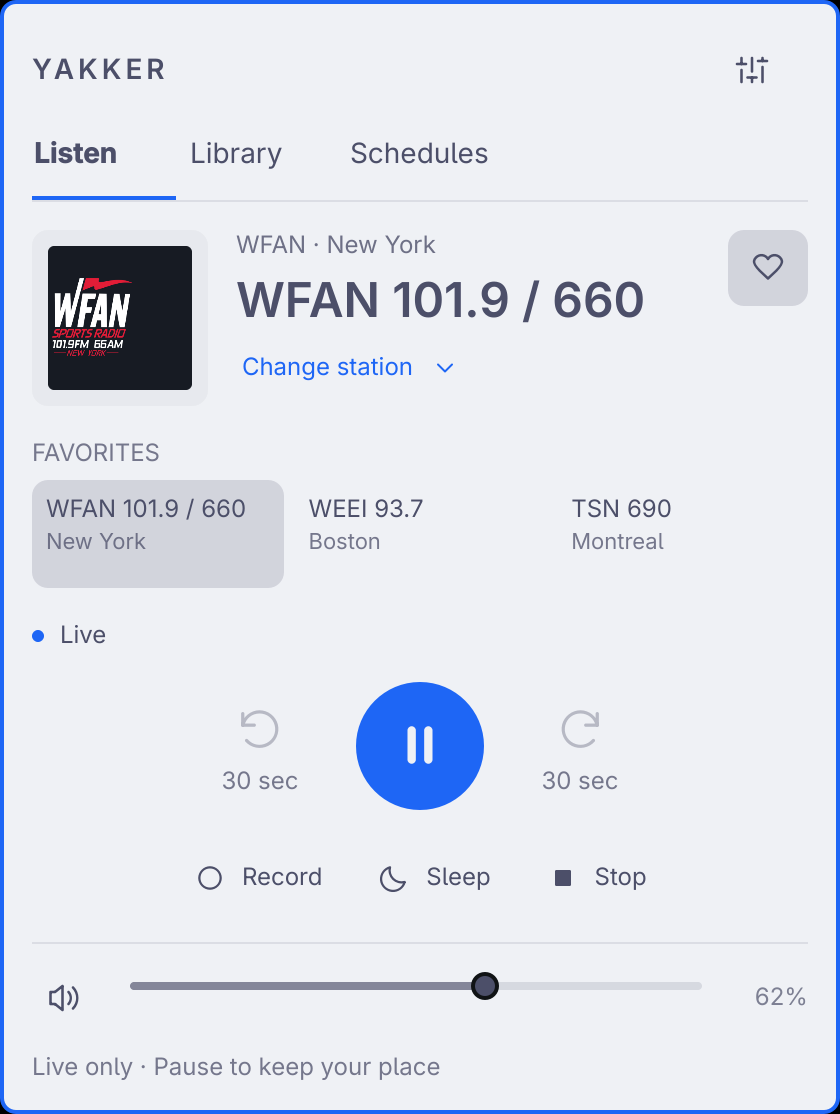
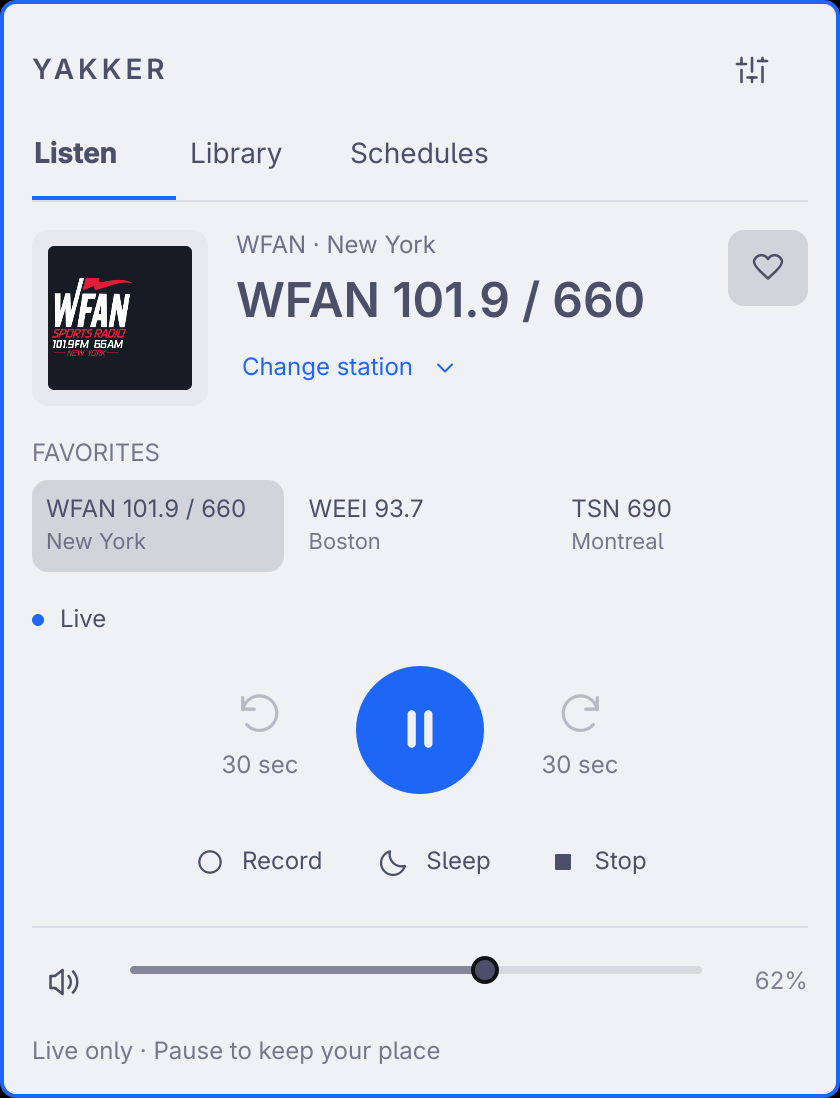
Keep player titles on one line with reduced-motion-aware marquee

diff --git a/Panel.qml b/Panel.qml
@@ -711,8 +711,9 @@ Ui.Panel {
                     font.pixelSize: Style.fontPx(1)
                     wrapMode: Text.Wrap
                   }
-                  Text {
+                  Radio.MarqueeText {
                     id: stationHeading
+                    scrolling: root.opened
                     width: parent.width
                     text: root.radio.playbackKind === "recording" ? root.radio.recordingTitle : root.radio.station.name
                     textFormat: Text.PlainText
@@ -720,7 +721,6 @@ Ui.Panel {
                     font.family: root.uiFontFamily
                     font.pixelSize: Style.fontPx(2)
                     font.weight: Font.DemiBold
-                    wrapMode: Text.Wrap
                   }
                   Radio.StationPicker {
                     id: stationPicker
@@ -774,7 +774,7 @@ Ui.Panel {
                       required property var modelData
                       required property int index
                       width: (presetGrid.width - presetGrid.spacing * (presetGrid.columns - 1)) / presetGrid.columns
-                      height: Style.space(54)
+                      height: Style.space(46)
                       selected: root.radio.stationId === modelData.id
                       foreground: root.barForeground
                       tooltipText: modelData.name + (modelData.city ? " · " + modelData.city : "")
@@ -789,7 +789,7 @@ Ui.Panel {
                         anchors.fill: parent
                         anchors.margins: Style.space(7)
                         spacing: Style.space(2)
-                        Text { width: parent.width; text: modelData.name; textFormat: Text.PlainText; color: root.barForeground; font.family: root.uiFontFamily; font.pixelSize: Style.fontPx(1); maximumLineCount: 2; wrapMode: Text.Wrap; elide: Text.ElideRight }
+                        Radio.MarqueeText { scrolling: false; width: parent.width; text: modelData.name; textFormat: Text.PlainText; color: root.barForeground; font.family: root.uiFontFamily; font.pixelSize: Style.fontPx(1) }
                         Text { width: parent.width; text: modelData.city || modelData.country || ""; textFormat: Text.PlainText; color: root.barForeground; opacity: 0.75; font.family: root.uiFontFamily; font.pixelSize: Style.space(11); elide: Text.ElideRight }
                       }
                     }
@@ -1117,7 +1117,7 @@ Ui.Panel {
               width: parent.width - Style.space(44) - dockBack.width - dockPlay.width - dockForward.width - dockStop.width - parent.spacing * 4
               spacing: Style.space(3)
               anchors.verticalCenter: parent.verticalCenter
-              Text { width: parent.width; text: root.radio.playbackKind === "recording" ? root.radio.recordingTitle : root.radio.station.name; textFormat: Text.PlainText; color: root.barForeground; font.family: root.uiFontFamily; font.pixelSize: Style.fontPx(1); font.weight: Font.DemiBold; maximumLineCount: 2; wrapMode: Text.Wrap; elide: Text.ElideRight }
+              Radio.MarqueeText { scrolling: false; width: parent.width; text: root.radio.playbackKind === "recording" ? root.radio.recordingTitle : root.radio.station.name; textFormat: Text.PlainText; color: root.barForeground; font.family: root.uiFontFamily; font.pixelSize: Style.fontPx(1); font.weight: Font.DemiBold }
               Text { width: parent.width; text: root.radio.playbackKind === "recording" ? root.radio.clock(root.radio.position) + " / " + root.radio.clock(root.radio.duration) : root.listeningStatus; textFormat: Text.PlainText; color: root.barForeground; opacity: 0.7; font.family: root.uiFontFamily; font.pixelSize: Style.fontPx(1); elide: Text.ElideRight }
             }
             Radio.FocusButton { id: dockBack; width: Style.space(30); horizontalPadding: 0; iconName: "back"; tooltipText: "Rewind 30 seconds"; Accessible.role: Accessible.Button; Accessible.name: tooltipText; foreground: root.barForeground; enabled: root.canRewind; opacity: enabled ? 1 : 0.35; focusable: true; onClicked: root.radio.skip(-30) }

diff --git a/tools/qml-smoke/recordings.qml b/tools/qml-smoke/recordings.qml
@@ -11,6 +11,7 @@ ShellRoot {
     Rectangle { anchors.fill: parent; color: Commons.Color.popups.background }
     Plugin.Panel { id: panel; width: window.width; height: window.height }
     Plugin.Panel { id: peer; visible: false; width: window.width; height: window.height }
+    Plugin.MarqueeText { id: marqueeFixture; visible: false; z: 100; width: 100; text: "98.5 The Sports Hub"; font.family: "Adwaita Sans"; font.pixelSize: 24; color: Commons.Color.foreground }
     Timer { interval: 300; running: true; onTriggered: tests.runChecks() }
     TestCase { id: tests; name: "FullRecordings"; when: false
       function capture(name) {
@@ -20,6 +21,31 @@ ShellRoot {
       }
       function runChecks() {
         try {
+          const reducedMotion = Commons.Style.reduceMotion
+          Commons.Style.reduceMotion = false
+          marqueeFixture.width = marqueeFixture.implicitWidth - 12
+          marqueeFixture.visible = true
+          const titleHeight = marqueeFixture.height
+          verify(marqueeFixture.overflowing && marqueeFixture.motionAllowed)
+          compare(marqueeFixture.offset, 0)
+          wait(150); compare(marqueeFixture.offset, 0, "Long titles did not pause before scrolling")
+          tryVerify(function() { return marqueeFixture.offset < -1 }, 1800)
+          tryVerify(function() { return marqueeFixture.offset === -marqueeFixture.overflowDistance }, 1800)
+          const endOffset = marqueeFixture.offset
+          wait(200); compare(marqueeFixture.offset, endOffset, "The title did not pause at the far end")
+          tryVerify(function() { return marqueeFixture.offset > endOffset + 1 }, 1800)
+          tryVerify(function() { return Math.abs(marqueeFixture.offset) < 0.1 }, 1800)
+          marqueeFixture.text = "TSN 690"
+          verify(!marqueeFixture.overflowing && !marqueeFixture.motionAllowed)
+          compare(marqueeFixture.offset, 0); compare(marqueeFixture.height, titleHeight)
+          marqueeFixture.text = "<b>A very long literal station name</b>"
+          compare(marqueeFixture.textFormat, Text.PlainText)
+          Commons.Style.reduceMotion = true
+          verify(marqueeFixture.overflowing && !marqueeFixture.motionAllowed && marqueeFixture.truncated)
+          compare(marqueeFixture.offset, 0); compare(marqueeFixture.height, titleHeight)
+          marqueeFixture.visible = false
+          Commons.Style.reduceMotion = reducedMotion
+          verify(!marqueeFixture.motionAllowed, "A hidden title kept animating")
           let state = Notices.update(null, {recordings:[{id:"old",status:"complete"}]}, true, false)
           compare(state.notices.length, 0, "Historic recording triggered a notification")
           state = Notices.update(state.state, {recordings:[{id:"new",status:"recording"}]}, true, false)

diff --git a/MarqueeText.qml b/MarqueeText.qml
@@ -1,0 +1,70 @@
+import QtQuick
+import QtQuick.Controls as QQC
+import qs.Commons
+import qs.Commons as Commons
+import qs.Ui as Ui
+
+Item {
+  id: root
+  property alias text: label.text
+  property alias color: label.color
+  property alias font: label.font
+  property alias textFormat: label.textFormat
+  property bool scrolling: true
+  property bool initialized: false
+  readonly property real overflowDistance: Math.max(0, label.implicitWidth - width)
+  readonly property bool overflowing: overflowDistance > 1
+  readonly property bool motionAllowed: initialized && scrolling && visible && overflowing && !Style.reduceMotion
+  readonly property real offset: label.x
+  readonly property bool truncated: label.truncated
+  readonly property int travelDuration: Math.max(1200, Math.round(overflowDistance / Style.space(28) * 1000))
+  implicitWidth: label.implicitWidth
+  implicitHeight: label.implicitHeight
+  height: implicitHeight
+  clip: true
+  Accessible.role: Accessible.StaticText
+  Accessible.name: text
+
+  function resetScroll() {
+    if (!initialized) return
+    motion.stop()
+    label.x = 0
+    if (motionAllowed) motion.start()
+  }
+  onTextChanged: resetScroll()
+  onWidthChanged: resetScroll()
+  onMotionAllowedChanged: resetScroll()
+  onOverflowDistanceChanged: resetScroll()
+  Component.onCompleted: { initialized = true; resetScroll() }
+
+  Text {
+    id: label
+    width: root.motionAllowed ? implicitWidth : root.width
+    textFormat: Text.PlainText
+    wrapMode: Text.NoWrap
+    maximumLineCount: 1
+    elide: root.motionAllowed ? Text.ElideNone : Text.ElideRight
+    Accessible.ignored: true
+  }
+  SequentialAnimation {
+    id: motion
+    loops: Animation.Infinite
+    PauseAnimation { duration: Style.duration(1200) }
+    NumberAnimation { target: label; property: "x"; from: 0; to: -root.overflowDistance; duration: Style.duration(root.travelDuration); easing.type: Easing.Linear }
+    PauseAnimation { duration: Style.duration(1200) }
+    NumberAnimation { target: label; property: "x"; from: -root.overflowDistance; to: 0; duration: Style.duration(root.travelDuration); easing.type: Easing.Linear }
+  }
+  HoverHandler { id: hover }
+  QQC.ToolTip {
+    visible: hover.hovered && root.overflowing
+    delay: 400
+    text: root.text
+    padding: Style.space(8)
+    background: Ui.BorderSurface {
+      color: Commons.Color.tooltip.background
+      radius: Style.cornerRadius
+      borderSpec: Border.surfaceSpec("tooltip", "border", Commons.Color.tooltip.border, Style.normalBorderWidth)
+    }
+    contentItem: Text { text: root.text; textFormat: Text.PlainText; color: Commons.Color.tooltip.text; font.family: "Adwaita Sans"; font.pixelSize: Style.fontPx(1) }
+  }
+}

diff --git a/tools/test-recordings-ui.py b/tools/test-recordings-ui.py
@@ -43,7 +43,7 @@ def main():
         shutil.copy2(SMOKE / "KeyboardPanel.qml", qs / "Ui/KeyboardPanel.qml")
         for name in ("Commons", "services"):
             (qs / name).symlink_to(shell / name, target_is_directory=True)
-        for name in ("Panel.qml", "RadioService.qml", "RecordingNotices.js", "StationLogo.qml", "RecordingsView.qml", "FocusButton.qml", "FocusIcon.qml", "StationPicker.qml", "qmldir"):
+        for name in ("Panel.qml", "RadioService.qml", "RecordingNotices.js", "StationLogo.qml", "RecordingsView.qml", "FocusButton.qml", "FocusIcon.qml", "StationPicker.qml", "MarqueeText.qml", "qmldir"):
             shutil.copy2(ROOT / name, plugin / name)
         (plugin / "assets").symlink_to(ROOT / "assets", target_is_directory=True)
         panel = plugin / "Panel.qml"

diff --git a/internal/tool/install.go b/internal/tool/install.go
@@ -16,7 +16,7 @@ import (
 
 var installFiles = []string{
 	"manifest.json", "qmldir", "BarWidget.qml",
-	"Panel.qml", "RadioService.qml", "RecordingNotices.js", "StationLogo.qml", "RecordingsView.qml", "FocusButton.qml", "FocusIcon.qml", "StationPicker.qml",
+	"Panel.qml", "RadioService.qml", "RecordingNotices.js", "StationLogo.qml", "RecordingsView.qml", "FocusButton.qml", "FocusIcon.qml", "StationPicker.qml", "MarqueeText.qml",
 	"assets/sports-hub.png", "assets/weei-fm.png", "assets/wscr.webp",
 	"assets/wxyt-fm.webp", "assets/espn-new-york.png", "assets/wfan.webp",
 	"assets/wip-fm.webp", "assets/kdka-fm.png", "assets/tsn-1050.png",

diff --git a/tools/release/main.go b/tools/release/main.go
@@ -27,7 +27,7 @@ import (
 
 var bundleFiles = []string{
 	"manifest.json", "qmldir", "BarWidget.qml",
-	"Panel.qml", "RadioService.qml", "RecordingNotices.js", "StationLogo.qml", "RecordingsView.qml", "FocusButton.qml", "FocusIcon.qml", "StationPicker.qml",
+	"Panel.qml", "RadioService.qml", "RecordingNotices.js", "StationLogo.qml", "RecordingsView.qml", "FocusButton.qml", "FocusIcon.qml", "StationPicker.qml", "MarqueeText.qml",
 	"stations.json", "README.md", "LICENSE",
 	"assets/wbns-fm.png", "assets/wkrk-fm.webp", "assets/kwfn-fm.webp",
 	"assets/wzgc-fm.webp", "assets/kkfn-fm.webp", "assets/klac.png",

diff --git a/README.md b/README.md
@@ -133,7 +133,11 @@ packaging builds locally and does not publish or install anything.
 Click the radio icon in the bar, select a station, then press the **Play** icon.
 Your last chosen station is restored on later launches. If it is no longer in
 the catalogue, choose another station; Yakker never substitutes a broadcaster.
-The Focus player shows the full station name above **Change station**, with
+The Focus player keeps the station title on one line above **Change station**.
+Titles that overflow scroll slowly to the end and back, pausing at both ends.
+Short titles stay still; reduced-motion mode uses an ellipsis and a full-title
+tooltip instead. Presets and the playback dock also stay on one line, without
+independent animations. The player includes
 up to six favorite presets in the order you added them. The **Listen**, **Library**,
 and **Schedules** tabs stay at the top. **Rewind · Play/Pause · Forward** form the
 main transport row, with a larger Play/Pause control; **Record**, **Sleep**, and
